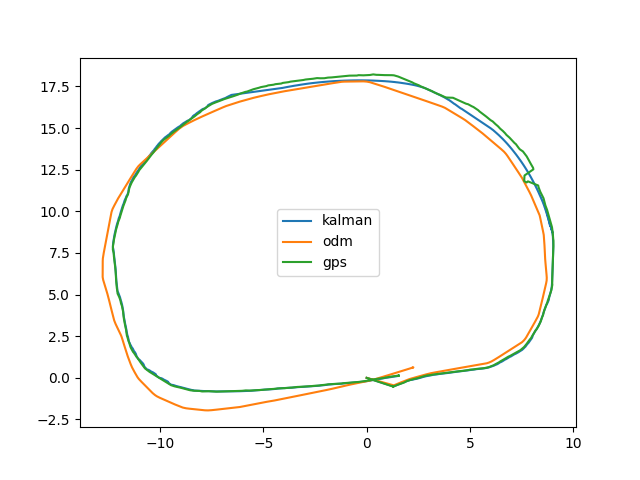
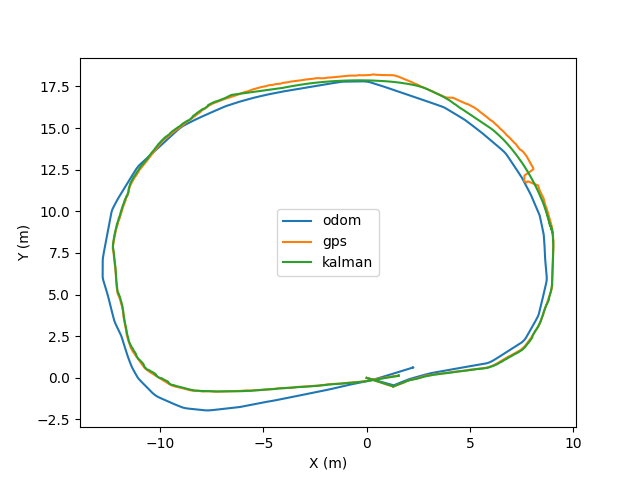
kf4 - graphing

diff --git a/kf.py b/kf.py
@@ -115,8 +115,25 @@ for i in range(len(s)):
     x.append(s[i]['X'][0])
     y.append(s[i]['X'][1])
 
-plt.plot(x, y, label="kalman")
-plt.plot(odom_x, odom_y, label="odm")
+plt.plot(odom_x, odom_y, label="odom")
 plt.plot(gps_x, gps_y, label="gps")
+plt.plot(x, y, label="kalman")
 plt.legend()
+plt.xlabel("X (m)")
+plt.ylabel("Y (m)")
 plt.savefig("graph.png")
+plt.clf()
+
+x, y = [], []
+for i in range(len(s)):
+    x.append(i+1)
+    y.append(s[i]['X'][3])
+
+plt.plot(x, odom_theta, label="odom")
+plt.plot(x, imu_heading, label="imu")
+plt.plot(x, y, label="kalman")
+plt.legend()
+plt.xlabel("Iteration")
+plt.ylabel("Radian")
+plt.savefig("graph2.png")
+plt.clf()
